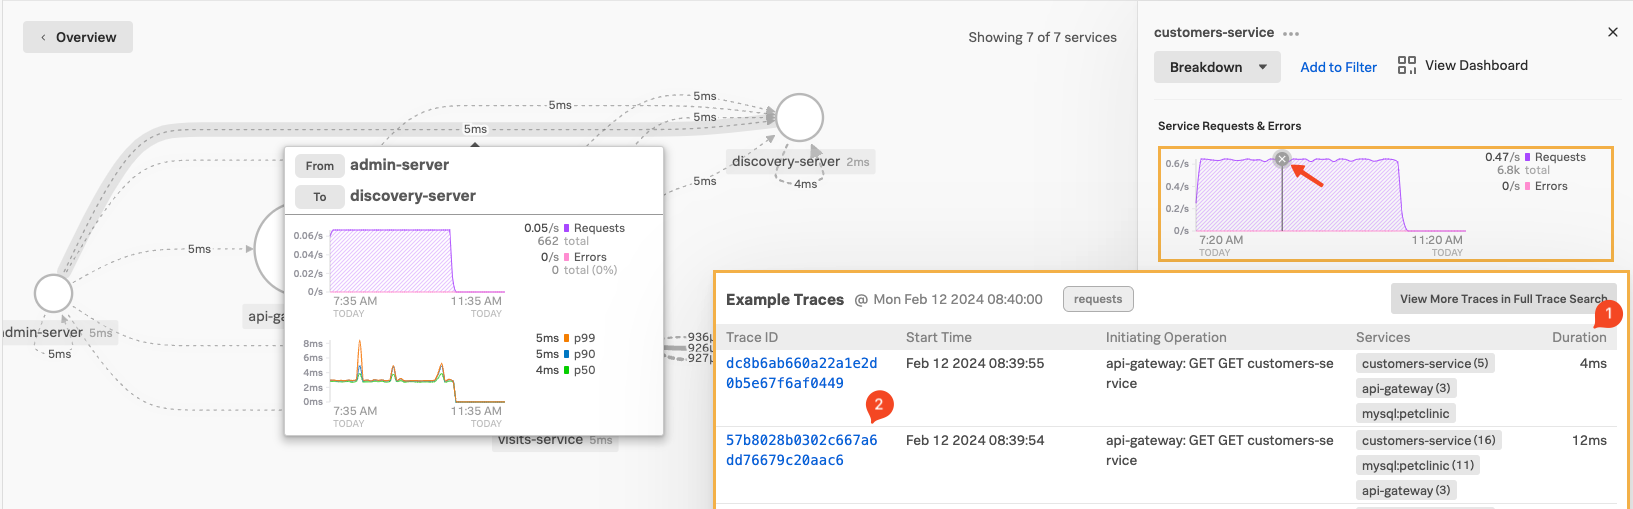
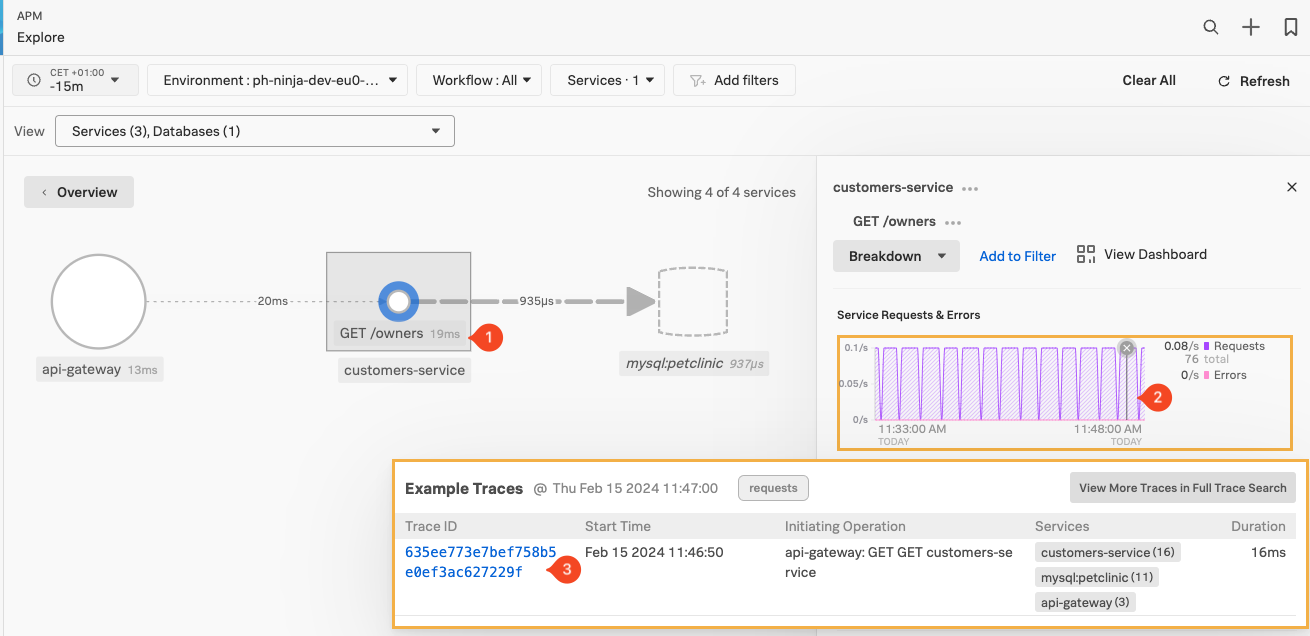
profiling complete

diff --git a/content/en/other/3-auto-instrumentation/3-java-microservices-k8s/50-profiling-db-query.md b/content/en/other/3-auto-instrumentation/3-java-microservices-k8s/50-profiling-db-query.md
@@ -19,54 +19,59 @@ When we installed the Splunk Distribution of the OpenTelemetry Collector using t
 
 When you deploy the PetClinic application, and set the Annotation, the collector automatically detects the application and instruments it for traces and profiling.
 
-we can verify this by examining the  startup logs of one of our Java based containers we are instrumenting by running the following script:
+we can verify this by examining the startup logs of one of our Java based containers we are instrumenting by running the following script:
 
 ```bash
 .  ~/workshop/petclinic/scripts/get_logs.sh
 ```
 
-The logs will show what flags where picked up by the Jav Auto instrumentation agent:
+The logs should show what flags where picked up by the Java Auto instrumentation agent:
 
 {{% tab title="Example output" %}}
 
 ``` text {wrap="false"}
+2024/02/15 09:42:00 Problem with dial: dial tcp 10.43.104.25:8761: connect: connection refused. Sleeping 1s
+2024/02/15 09:42:01 Problem with dial: dial tcp 10.43.104.25:8761: connect: connection refused. Sleeping 1s
+2024/02/15 09:42:02 Connected to tcp://discovery-server:8761
 Picked up JAVA_TOOL_OPTIONS:  -javaagent:/otel-auto-instrumentation-java/javaagent.jar
+Picked up _JAVA_OPTIONS: -Dspring.profiles.active=docker,mysql -Dsplunk.profiler.call.stack.interval=150
 OpenJDK 64-Bit Server VM warning: Sharing is only supported for boot loader classes because bootstrap classpath has been appended
-[otel.javaagent 2024-02-06 15:25:20:210 +0000] [main] INFO io.opentelemetry.javaagent.tooling.VersionLogger - opentelemetry-javaagent - version: splunk-1.30.0-otel-1.32.0
-[otel.javaagent 2024-02-06 15:25:20:691 +0000] [main] INFO com.splunk.javaagent.shaded.io.micrometer.core.instrument.push.PushMeterRegistry - publishing metrics for SignalFxMeterRegistry every 30s
-[otel.javaagent 2024-02-06 15:25:22:485 +0000] [main] INFO com.splunk.opentelemetry.profiler.ConfigurationLogger - -----------------------
-[otel.javaagent 2024-02-06 15:25:22:485 +0000] [main] INFO com.splunk.opentelemetry.profiler.ConfigurationLogger - Profiler configuration:
-[otel.javaagent 2024-02-06 15:25:22:486 +0000] [main] INFO com.splunk.opentelemetry.profiler.ConfigurationLogger -                  splunk.profiler.enabled : true
-[otel.javaagent 2024-02-06 15:25:22:487 +0000] [main] INFO com.splunk.opentelemetry.profiler.ConfigurationLogger -                splunk.profiler.directory : /tmp
-[otel.javaagent 2024-02-06 15:25:22:487 +0000] [main] INFO com.splunk.opentelemetry.profiler.ConfigurationLogger -       splunk.profiler.recording.duration : 20s
-[otel.javaagent 2024-02-06 15:25:22:488 +0000] [main] INFO com.splunk.opentelemetry.profiler.ConfigurationLogger -               splunk.profiler.keep-files : false
-[otel.javaagent 2024-02-06 15:25:22:488 +0000] [main] INFO com.splunk.opentelemetry.profiler.ConfigurationLogger -            splunk.profiler.logs-endpoint : http://10.13.2.123:4317
-[otel.javaagent 2024-02-06 15:25:22:489 +0000] [main] INFO com.splunk.opentelemetry.profiler.ConfigurationLogger -              otel.exporter.otlp.endpoint : http://10.13.2.123:4317
-[otel.javaagent 2024-02-06 15:25:22:489 +0000] [main] INFO com.splunk.opentelemetry.profiler.ConfigurationLogger -           splunk.profiler.memory.enabled : true
-[otel.javaagent 2024-02-06 15:25:22:490 +0000] [main] INFO com.splunk.opentelemetry.profiler.ConfigurationLogger -             splunk.profiler.tlab.enabled : true
-[otel.javaagent 2024-02-06 15:25:22:490 +0000] [main] INFO com.splunk.opentelemetry.profiler.ConfigurationLogger -        splunk.profiler.memory.event.rate : 150/s
-[otel.javaagent 2024-02-06 15:25:22:491 +0000] [main] INFO com.splunk.opentelemetry.profiler.ConfigurationLogger -      splunk.profiler.call.stack.interval : PT10S
-[otel.javaagent 2024-02-06 15:25:22:491 +0000] [main] INFO com.splunk.opentelemetry.profiler.ConfigurationLogger -  splunk.profiler.include.internal.stacks : false
-[otel.javaagent 2024-02-06 15:25:22:492 +0000] [main] INFO com.splunk.opentelemetry.profiler.ConfigurationLogger -      splunk.profiler.tracing.stacks.only : false
-[otel.javaagent 2024-02-06 15:25:22:492 +0000] [main] INFO com.splunk.opentelemetry.profiler.ConfigurationLogger - -----------------------
-[otel.javaagent 2024-02-06 15:25:22:492 +0000] [main] INFO com.splunk.opentelemetry.profiler.JfrActivator - Profiler is active.
+[otel.javaagent 2024-02-15 09:42:03:056 +0000] [main] INFO io.opentelemetry.javaagent.tooling.VersionLogger - opentelemetry-javaagent - version: splunk-1.30.1-otel-1.32.1
+[otel.javaagent 2024-02-15 09:42:03:768 +0000] [main] INFO com.splunk.javaagent.shaded.io.micrometer.core.instrument.push.PushMeterRegistry - publishing metrics for SignalFxMeterRegistry every 30s
+[otel.javaagent 2024-02-15 09:42:07:478 +0000] [main] INFO com.splunk.opentelemetry.profiler.ConfigurationLogger - -----------------------
+[otel.javaagent 2024-02-15 09:42:07:478 +0000] [main] INFO com.splunk.opentelemetry.profiler.ConfigurationLogger - Profiler configuration:
+[otel.javaagent 2024-02-15 09:42:07:480 +0000] [main] INFO com.splunk.opentelemetry.profiler.ConfigurationLogger -                  splunk.profiler.enabled : true
+[otel.javaagent 2024-02-15 09:42:07:505 +0000] [main] INFO com.splunk.opentelemetry.profiler.ConfigurationLogger -                splunk.profiler.directory : /tmp
+[otel.javaagent 2024-02-15 09:42:07:505 +0000] [main] INFO com.splunk.opentelemetry.profiler.ConfigurationLogger -       splunk.profiler.recording.duration : 20s
+[otel.javaagent 2024-02-15 09:42:07:506 +0000] [main] INFO com.splunk.opentelemetry.profiler.ConfigurationLogger -               splunk.profiler.keep-files : false
+[otel.javaagent 2024-02-15 09:42:07:510 +0000] [main] INFO com.splunk.opentelemetry.profiler.ConfigurationLogger -            splunk.profiler.logs-endpoint : http://10.13.2.38:4317
+[otel.javaagent 2024-02-15 09:42:07:513 +0000] [main] INFO com.splunk.opentelemetry.profiler.ConfigurationLogger -              otel.exporter.otlp.endpoint : http://10.13.2.38:4317
+[otel.javaagent 2024-02-15 09:42:07:513 +0000] [main] INFO com.splunk.opentelemetry.profiler.ConfigurationLogger -           splunk.profiler.memory.enabled : true
+[otel.javaagent 2024-02-15 09:42:07:515 +0000] [main] INFO com.splunk.opentelemetry.profiler.ConfigurationLogger -             splunk.profiler.tlab.enabled : true
+[otel.javaagent 2024-02-15 09:42:07:516 +0000] [main] INFO com.splunk.opentelemetry.profiler.ConfigurationLogger -        splunk.profiler.memory.event.rate : 150/s
+[otel.javaagent 2024-02-15 09:42:07:516 +0000] [main] INFO com.splunk.opentelemetry.profiler.ConfigurationLogger -      splunk.profiler.call.stack.interval : PT0.15S
+[otel.javaagent 2024-02-15 09:42:07:517 +0000] [main] INFO com.splunk.opentelemetry.profiler.ConfigurationLogger -  splunk.profiler.include.internal.stacks : false
+[otel.javaagent 2024-02-15 09:42:07:517 +0000] [main] INFO com.splunk.opentelemetry.profiler.ConfigurationLogger -      splunk.profiler.tracing.stacks.only : false
+[otel.javaagent 2024-02-15 09:42:07:517 +0000] [main] INFO com.splunk.opentelemetry.profiler.ConfigurationLogger - -----------------------
+[otel.javaagent 2024-02-15 09:42:07:518 +0000] [main] INFO com.splunk.opentelemetry.profiler.JfrActivator - Profiler is active.
 ```
 
 {{% /tab %}}
-<!--
-We are interested in the **Profiling Configuration**:
+
+We are interested in the section written by the  `com.splunk.opentelemetry.profiler.ConfigurationLogger` or the **Profiling Configuration**
 
 We can see the various settings you can control, some that are  useful depending on your use case like the `splunk.profiler.directory` -  The location where the agent  writes the call stacks before sending them to Splunk. This may be different depending how you configure your containers.
 An other parameter you may want to change is `splunk.profiler.call.stack.interval` This is how often the system takes a CPU Stack trace. You may want to reduce this if you have short spans like we have in our application. (we kept the default as the spans in this demo application are extremely short, so Span may not always have a CPU  Call Stack related to it.)
 
-You can find how to set these parameters [here](https://docs.splunk.com/observability/en/gdi/get-data-in/application/java/configuration/advanced-java-otel-configuration.html#profiling-configuration-java). ad this is how you set it in your deployment.yaml  exactly how pass any JAVA option to the the java application running in your container:
+You can find how to set these parameters [here](https://docs.splunk.com/observability/en/gdi/get-data-in/application/java/configuration/advanced-java-otel-configuration.html#profiling-configuration-java). And below is how you set a higher collection rate for call stack in your deployment.yaml, exactly how pass any JAVA option to the the java application running in your container:
 
 ```text
  env: 
     - name: JAVA_OPTIONS
       value: "-Dsplunk.profiler.call.stack.interval=150"
 ```
--->
+
+If you don't see those lines as a result from the script, the startup may have taken to long and generated to many connection errors, try looking at the logs directly with kubectl or the k9s utility that is installed.
 
 ## 2. Looking at Profiling Data in the Trace Waterfall
 
@@ -88,9 +93,15 @@ This will bring you to the Always-on Profiling main screen, with the Memory view
 * Java Function calls identified.**(3)**, allowing you to drill down  into the Methods called from that function.
 * The Flame Graph **(4)**,  with the visualization of hierarchical based on the stack traces of the profiled service.
 
-Once you have identified the relevant Function or Method you are interested in,  select it **(1)**  and find it in the  Flame Graph **(2)**. Select it, once it shows the pane as shown in the image below, you can xee the Tread info **(3)** by clicking on the blue *Show Thread Info* link. By clicking on *Copy Stack Trace* **(4)**,  you can grab the actual stack trace that you can use in your coding platform to go to the actual lines of code use at this point (depending of course on your preferred Coding platform)
+Once you have identified the relevant Function or Method you are interested in, `com.mysql.cj.protocol.a.NativePacketPayload.readBytes` in our example but yor may differ, so pick the top one **(1)**  and find it at the e bottom of the Flame Graph **(2)**. Click on it in the Flame Graph, it will show a pane as shown in the image below, where you can see the Thread information **(3)** by clicking on the blue *Show Thread Info* link. If you click on the *Copy Stack Trace* **(4)** button, you grab the actual stack trace that you can use in your coding platform to go to the actual lines of code use at this point (depending of course on your preferred Coding platform)
 ![stack trace](../images/grab-stack-trace.png)
 
+For more detail on Profiling, check the the **Debug Problems workshop**, or  check the documents [here](https://docs.splunk.com/observability/en/apm/profiling/intro-profiling.html#introduction-to-alwayson-profiling-for-splunk-apm)
+
+## 3. Database Query Performance
+
+
+WIP
 <!--
 
 You can now visit the Splunk APM UI and examine the application components, traces, profiling, DB Query performance and metrics. From the left-hand menu **APM** → **Explore**, click the environment dropdown and select your environment e.g. `<INSTANCE>-petclinic` (where`<INSTANCE>` is replaced with the value you noted down earlier).
@@ -98,7 +109,6 @@ You can now visit the Splunk APM UI and examine the application components, trac
 ![APM Environment](../images/apm-environment.png)
 
 Once your validation is complete you can stop the application by pressing `Ctrl-c`.
-
 
 ## 4. Adding Resource Attributes to Spans
 

diff --git a/content/en/other/3-auto-instrumentation/3-java-microservices-k8s/30-auto-instrumentation.md b/content/en/other/3-auto-instrumentation/3-java-microservices-k8s/30-auto-instrumentation.md
@@ -136,24 +136,24 @@ This will look similar like the Screen shot below:
 
 ![restart](../images/k8s-navigator-restarted-pods.png)
 
-Wait for the pods to turn green again (You may want to refresh the screen), then navigate to the **APM** ![APM](../images/apm-icon.png?classes=inline&height=25px) section to look at the information provide by the traces generated from your service in the **Explore** Pane. Use the filter option and change the *environment* filter **(1)** and search for the name of your workshop instance in the drop down box, it should be the [INSTANCE]-workshop. (where `INSTANCE` is the value from the shell script you run earlier). Make sure it is the only one selected.
+Wait for the pods to turn green again.(You may want to refresh the screen, then navigate to the **APM** ![APM](../images/apm-icon.png?classes=inline&height=25px) section to look at the information provide by the traces generated from your service in the **Explore** Pane. Use the filter option and change the *environment* filter **(1)** and search for the name of your workshop instance in the drop down box, it should be the [INSTANCE]-workshop. (where `INSTANCE` is the value from the shell script you run earlier). Make sure it is the only one selected.
 
 ![apm](../images/zero-config-first-services-overview.png)
 
-You should see the name **(2)** of the api-gateway service and metrics in the Latency and Request & Errors charts. (You can ignore the Critical Alert, as it was caused by the sudden request increase generated by the load generator, It will become the norm in a bit and go away).   You should also see the config-server, discovery-server and admin-server services.
+You should see the name **(2)** of the api-gateway service and metrics in the Latency and Request & Errors charts. (You can ignore the Critical Alert, as it was caused by the sudden request increase generated by the load generator, It will become the norm in a bit and go away). You should also see the rest of the service appear.
 
 Next, click on **Explore** **(3)** to see the services in the automatically generated dependency map and select the api-gateway service.
 ![apm map](../images/zero-config-first-services-map.png)
 
-Here you can see the interaction between the Services.
-
-It will take the Petclinic Microservice application a few minutes to start up and fully synchronize.
+THe Example above show  all the interaction between the all our services, as tt will take the Petclinic Microservice application a few minutes to start up and fully synchronize it make a bit for your map to look like this.
+reducing the time will help, if you pick a Custom time of 2 minutes,  the initial startup related errors will disappear form the view.)
 
 In the meantime let's examine the metrics that are available for each service that is instrumented and visit the request, error, and duration (RED) metrics Dashboard
 
-## 5. Examine R.E.D. Metrics for the api-gateway
+## 5. Examine default R.E.D. Metrics
 
- Splunk APM provides a set of built-in dashboards that present charts and visualized metrics to help you see problems occurring in real time and quickly determine whether the problem is associated with a service, a specific endpoint, or the underlying infrastructure.  To look at this dashboard for `api-gateway`, make sure you have the `api-gateway` service selected in the Dependency map as show above, then click on the ***View Dashboard** Link **(1)**  at the top of the right hand pane.
+ Splunk APM provides a set of built-in dashboards that present charts and visualized metrics to help you see problems occurring in real time and quickly determine whether the problem is associated with a service, a specific endpoint, or the underlying infrastructure. To look at this dashboard for the selected `api-gateway`, make sure you have the `api-gateway` service selected in the Dependency map as show above, then click on the ***View Dashboard** Link **(1)**  at the top of the right hand pane.
+
 This will bring you to the services dashboard:
 
 ![metrics dashboard](../images/zero-config-first-services-metrics.png)

diff --git a/content/en/other/3-auto-instrumentation/3-java-microservices-k8s/40-traces-spans-tags.md b/content/en/other/3-auto-instrumentation/3-java-microservices-k8s/40-traces-spans-tags.md
@@ -14,13 +14,17 @@ Make sure you are in  the APM Explore page either by going back in the browser o
 
 ## 2. Examine a Trace from the APM Dependency map
 
-For this exercise we are going to use a common scenario you would use if the service selected was showing high latency, or errors for example..
+For this exercise we are going to use a common scenario you would use if the service operation  was showing high latency, or errors for example.
 
-Select the **Customer Service** in the Dependency map, then select a line in the `Service Requests & Errors` chart, when the dot appear click to get a list of  sample traces:
+Select the **Customer Service** in the Dependency map **(1)**, then make sure the `customers-service` is selected in the **Services** dropdown box **(2)**. Next, select `GET /Owners` from the Operations Drop down **(3)**.
 
-![select a trace](../images/selecting-a-trace.png)
+![select a trace](../images/select-workflow.png)
 
- One you have the list of sample traces, make sure you look at the Duration, **(1)**  column and select the trace with the longest duration (more data to see in the trace) by clicking on the blue **(2)** Trace ID Link. (Make sure it has at least the customers-service mentioned in the Service Column.)
+This should give you the workflow  wit A filter on `GET /owners` **(1)** as shown below. To pick a trace, select a line in the `Service Requests & Errors` chart **(2)**, when the dot appear click to get a list of sample traces:
+
+![workflow-trace-pick](../images/selecting-a-trace.png)
+
+Once you have the list of sample traces, Clicking on the blue **(3)** Trace ID Link. (Make sure it has at thesame three services mentioned in the Service Column.)
 
  This bring us the the Trace selected in the Waterfall view:
 
@@ -40,7 +44,8 @@ First lets examine a Span:
 
 While we examine our spans, lets look at a number features that you get out of the box without code modifications when using Zero config Auto-Instrumentation on top of tracing:
 
-First, in the Waterfall Pane, make sure the `customers-service:SELECT petclinic.owners` Span is selected as shown in the screenshot below:
+Due to tha fact there are several  different routes
+First, in the Waterfall Pane, make sure the `customers-service:SELECT petclinic.owners`  or similar span is selected as shown in the screenshot below:
 
 ![db-query](../images/db-query.png)
 

diff --git a/content/en/other/3-auto-instrumentation/3-java-microservices-k8s/20-verify-setup.md b/content/en/other/3-auto-instrumentation/3-java-microservices-k8s/20-verify-setup.md
@@ -8,9 +8,9 @@ weight: 20
 
 Once the installation is completed, you can login into the  **Splunk Observability Cloud** with the URL provided by the Instructor.
 
-First, Navigate to **Kubernetes Navigator** view in the **Infrastructure** ![infra](../images/infra-icon.png?classes=inline&height=25px) section to see the metrics from your cluster in the **K8s nodes** pane. Change the *Time* filter to the last 15 Minutes (-15m) to focus on the latest data.
+First, Navigate to **Kubernetes Navigator** view in the **Infrastructure** ![infra](../images/infra-icon.png?classes=inline&height=25px) section to see the metrics from your cluster in the **K8s nodes** pane. Once you are in the Kubernetes Navigator view, change the *Time* filter to the last 15 Minutes (-15m) to focus on the latest data.
 
-Use the regular filter option at the top of the Navigator and select `k8s.cluster.name` **(1)** and type or select the cluster name of your workshop instance (you can get the unique part from your cluster name by using the `INSTANCE` from the output from the shell script you ran earlier). (You can also select your cluster by clicking on its image in the cluster pane.)
+Select your own cluster with the regular filter option at the top of the Navigator and a filter `k8s.cluster.name` **(1)**. Type or select the cluster name of your workshop instance (you can get the unique part from your cluster name by using the `INSTANCE` from the output from the shell script you ran earlier). (You can also select your cluster by clicking on its image in the cluster pane.)
 You should now only have your cluster visible **(2)**.
 
 ![Navigator](../images/navigator.png)
@@ -24,6 +24,7 @@ Also, a `Mysql` pane **(5)** should appear, when you click on that pane, you can
 ![mysql metrics](../images/mysql-metrics.png)
 
 Once you see data flowing in from your host (`metrics and logs`) and MySQL shows `metrics` as well we can move on to the actual PetClinic application.
+
 ## 2. Check the Petshop Website
 
 To test the application you need to obtain the public IP address of the instance you are running on. You can do this by running the following command:

diff --git a/content/en/other/3-auto-instrumentation/3-java-microservices-k8s/10-preparation.md b/content/en/other/3-auto-instrumentation/3-java-microservices-k8s/10-preparation.md
@@ -180,7 +180,6 @@ splunk-otel-collector-operator-69d476cb7-j7zwd                  2/2     Running 
 {{< /tabs >}}
 
 Ensure there are no errors by tailing the logs from the OpenTelemetry Collector pod. The output should look similar to the log output shown in the Output tab below.
-
 Use the label set by the `helm` install to tail logs (You will need to press `ctrl + c` to exit). Or use the installed `k9s` terminal UI for bonus points!
 
 {{< tabs >}}
@@ -302,7 +301,7 @@ Once they are running, the application will take a few minutes to fully start up
 
 ## 5. Verify the local Docker Repository
 
-Once we have our Auto instrumentation up and running with the existing containers, we are going to build our own containers to show some of the additional instrumentation features of Opentelemetry Java. Only then we will touch the config files or the source code. Once we build these containers, Kubernetes will need to pull these new images from somewhere. To enable this we have created a local repository, so Kubernetes can pull those local images.
+Once we have tested our Zero Auto-Config Instrumentation the existing containers, we are going to build our own containers to show some of the additional instrumentation features of Opentelemetry Java. Only then we will touch the config files or the source code. Once we build these containers, Kubernetes will need to pull these new images from somewhere. To enable this we have created a local repository to store these new containers, so Kubernetes can pull the images locally.
 
 We can see if the repository is up and running by checking the inventory with the below command:
 
